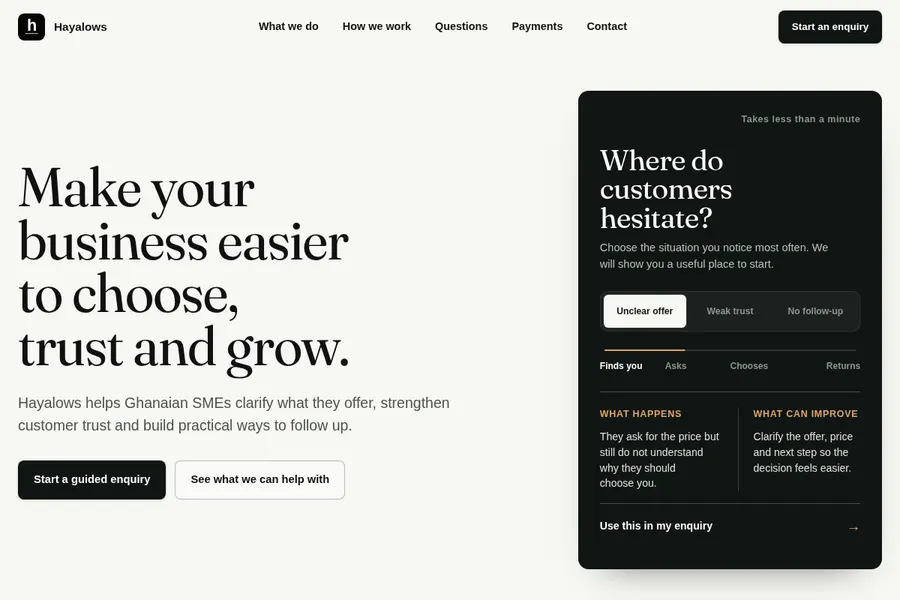
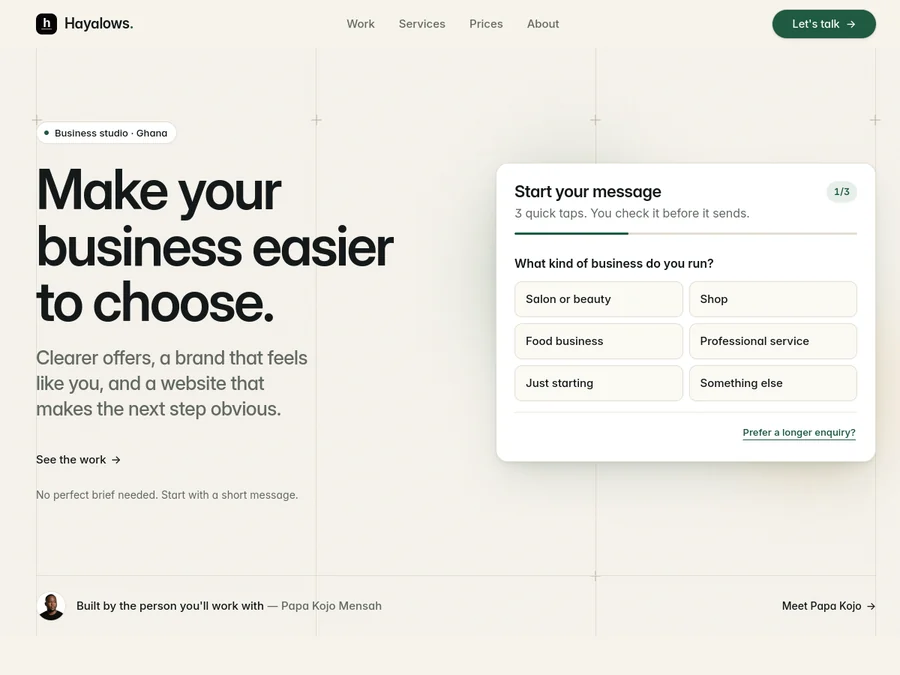
Refresh Hayalows portfolio screenshot

diff --git a/cv/projects/index.html b/cv/projects/index.html
@@ -48,7 +48,7 @@
         </details>
         <nav class="story-pagination" aria-label="Hayalows Ventures story parts" data-story-pagination hidden><button type="button" data-story-prev aria-label="Previous part of Hayalows Ventures story"><svg width="16" height="16" viewBox="0 0 24 24" fill="none" stroke="currentColor" stroke-width="1.7" aria-hidden="true"><path d="m15 18-6-6 6-6"/></svg></button><span data-story-counter>01 / 03</span><button type="button" data-story-next aria-label="Next part of Hayalows Ventures story"><svg width="16" height="16" viewBox="0 0 24 24" fill="none" stroke="currentColor" stroke-width="1.7" aria-hidden="true"><path d="m9 6 6 6-6 6"/></svg></button></nav>
       </div>
-      <figure class="story-preview"><div class="story-preview__frame"><span class="story-preview__label">Published interface</span><img src="../assets/projects/hayalows.webp" width="1280" height="900" alt="Screenshot of the published Hayalows Ventures interface" loading="lazy" decoding="async" data-story-image><p class="story-image-fallback" data-story-image-fallback hidden>The preview could not load. You can still read the story and visit the live project above.</p></div><figcaption><p class="story-context" data-story-context data-context-0="Connecting communication with the customer journey." data-context-1="Brand, service and operations considered together." data-context-2="The public venture site is the available artefact." data-overview="The published Hayalows Ventures interface.">The published Hayalows Ventures interface.</p><div class="story-preview__meta"><span>Snapshot · 1 October 2026</span><a href="../assets/projects/hayalows.webp" target="_blank" rel="noopener">View full screenshot <span aria-hidden="true">↗</span></a></div></figcaption></figure>
+      <figure class="story-preview"><div class="story-preview__frame"><span class="story-preview__label">Published interface</span><img src="../assets/projects/hayalows.webp?v=20261024-hayalows-current" width="900" height="675" alt="Current Hayalows homepage showing the business message and guided enquiry flow" loading="lazy" decoding="async" data-story-image><p class="story-image-fallback" data-story-image-fallback hidden>The preview could not load. You can still read the story and visit the live project above.</p></div><figcaption><p class="story-context" data-story-context data-context-0="Connecting communication with the customer journey." data-context-1="Brand, service and operations considered together." data-context-2="The public venture site is the available artefact." data-overview="The current Hayalows homepage, including its three-step guided enquiry flow.">The current Hayalows homepage, including its three-step guided enquiry flow.</p><div class="story-preview__meta"><span>Homepage snapshot · 24 October 2026</span><a href="../assets/projects/hayalows.webp?v=20261024-hayalows-current" target="_blank" rel="noopener">View full screenshot <span aria-hidden="true">↗</span></a></div></figcaption></figure>
     </div><aside class="case__note"><strong>Evidence available now</strong><span>The venture site is the public artefact. Client outcomes or commercial performance are not stated here because the current portfolio data does not document them.</span></aside></article>
 <article class="case" id="english-chat"><header class="case__header"><div><p class="eyebrow">05 · Live tool</p><h2>English Chat Finder</h2><p>A single search across availability from more than 200 English-conversation calendars.</p></div><a class="case__visit" href="https://englishchatsession.vercel.app/" target="_blank" rel="noopener">Open tool ↗</a></header><div class="project-story" data-project-story data-project="english-chat">
       <div class="story-controls"><p class="story-instruction">Choose a part of the story.</p>

diff --git a/cv/index.html b/cv/index.html
@@ -146,7 +146,7 @@
               <div class="work-card__content"><p class="work-card__meta">PRODUCT · MAP-FIRST PLANNING</p><h3>RouteLab</h3><p class="work-card__lead">A calmer way to plan routes and keep everyday movement in one map-first flow.</p><p class="work-card__role"><strong>My part</strong> Product direction and frontend work for the map-first planning experience.</p><div class="work-card__actions"><a href="projects/#routelab">Read the project notes <span aria-hidden="true">→</span></a><a data-project-link="routelab" href="https://maps.hayalows.com/?utm_source=pkm_cv&utm_medium=portfolio&utm_campaign=project_links&utm_content=routelab_card" target="_blank" rel="noopener">Visit RouteLab <span aria-hidden="true">↗</span></a></div></div>
             </article>
             <article class="work-card">
-              <a class="work-card__media" href="projects/#hayalows" aria-label="Read the Hayalows Ventures project notes"><img src="assets/projects/hayalows.webp" width="1280" height="900" alt="Snapshot of the Hayalows Ventures website" loading="lazy" decoding="async"><span class="work-card__media-label">Venture</span></a>
+              <a class="work-card__media" href="projects/#hayalows" aria-label="Read the Hayalows Ventures project notes"><img src="assets/projects/hayalows.webp?v=20261024-hayalows-current" width="900" height="675" alt="Current Hayalows homepage showing the business message and guided enquiry flow" loading="lazy" decoding="async"><span class="work-card__media-label">Venture</span></a>
               <div class="work-card__content"><p class="work-card__meta">VENTURE · SERVICE SYSTEMS</p><h3>Hayalows Ventures</h3><p class="work-card__lead">Brand communication, customer journeys, operations and practical digital systems considered together.</p><p class="work-card__role"><strong>My part</strong> Founder work across brand direction, customer experience and practical digital systems.</p><div class="work-card__actions"><a href="projects/#hayalows">Read the project notes <span aria-hidden="true">→</span></a><a data-project-link="hayalows_ventures" href="https://hayalows.com/?utm_source=pkm_cv&utm_medium=portfolio&utm_campaign=project_links&utm_content=hayalows_ventures_card" target="_blank" rel="noopener">Visit Hayalows <span aria-hidden="true">↗</span></a></div></div>
             </article>
             <article class="work-card">

diff --git a/cv/projects/styles.css b/cv/projects/styles.css
@@ -61,4 +61,5 @@ summary:focus-visible,button:focus-visible{outline:2px solid #e5f3fd;outline-off
 .case__actions{display:flex;flex-wrap:wrap;gap:.65rem 1.25rem;margin-top:1.2rem}
 .case__actions a{display:inline-flex;align-items:center;min-height:2.6rem;color:#f3ca2f;font-size:.76rem;font-weight:700;text-decoration:none}
 .case__actions a:hover{text-decoration:underline;text-underline-offset:.2em}
+.project-story[data-project="hayalows"] .story-preview img{aspect-ratio:4/3}
 @media(max-width:46rem){.case-founder__visual{margin-top:1rem}}
